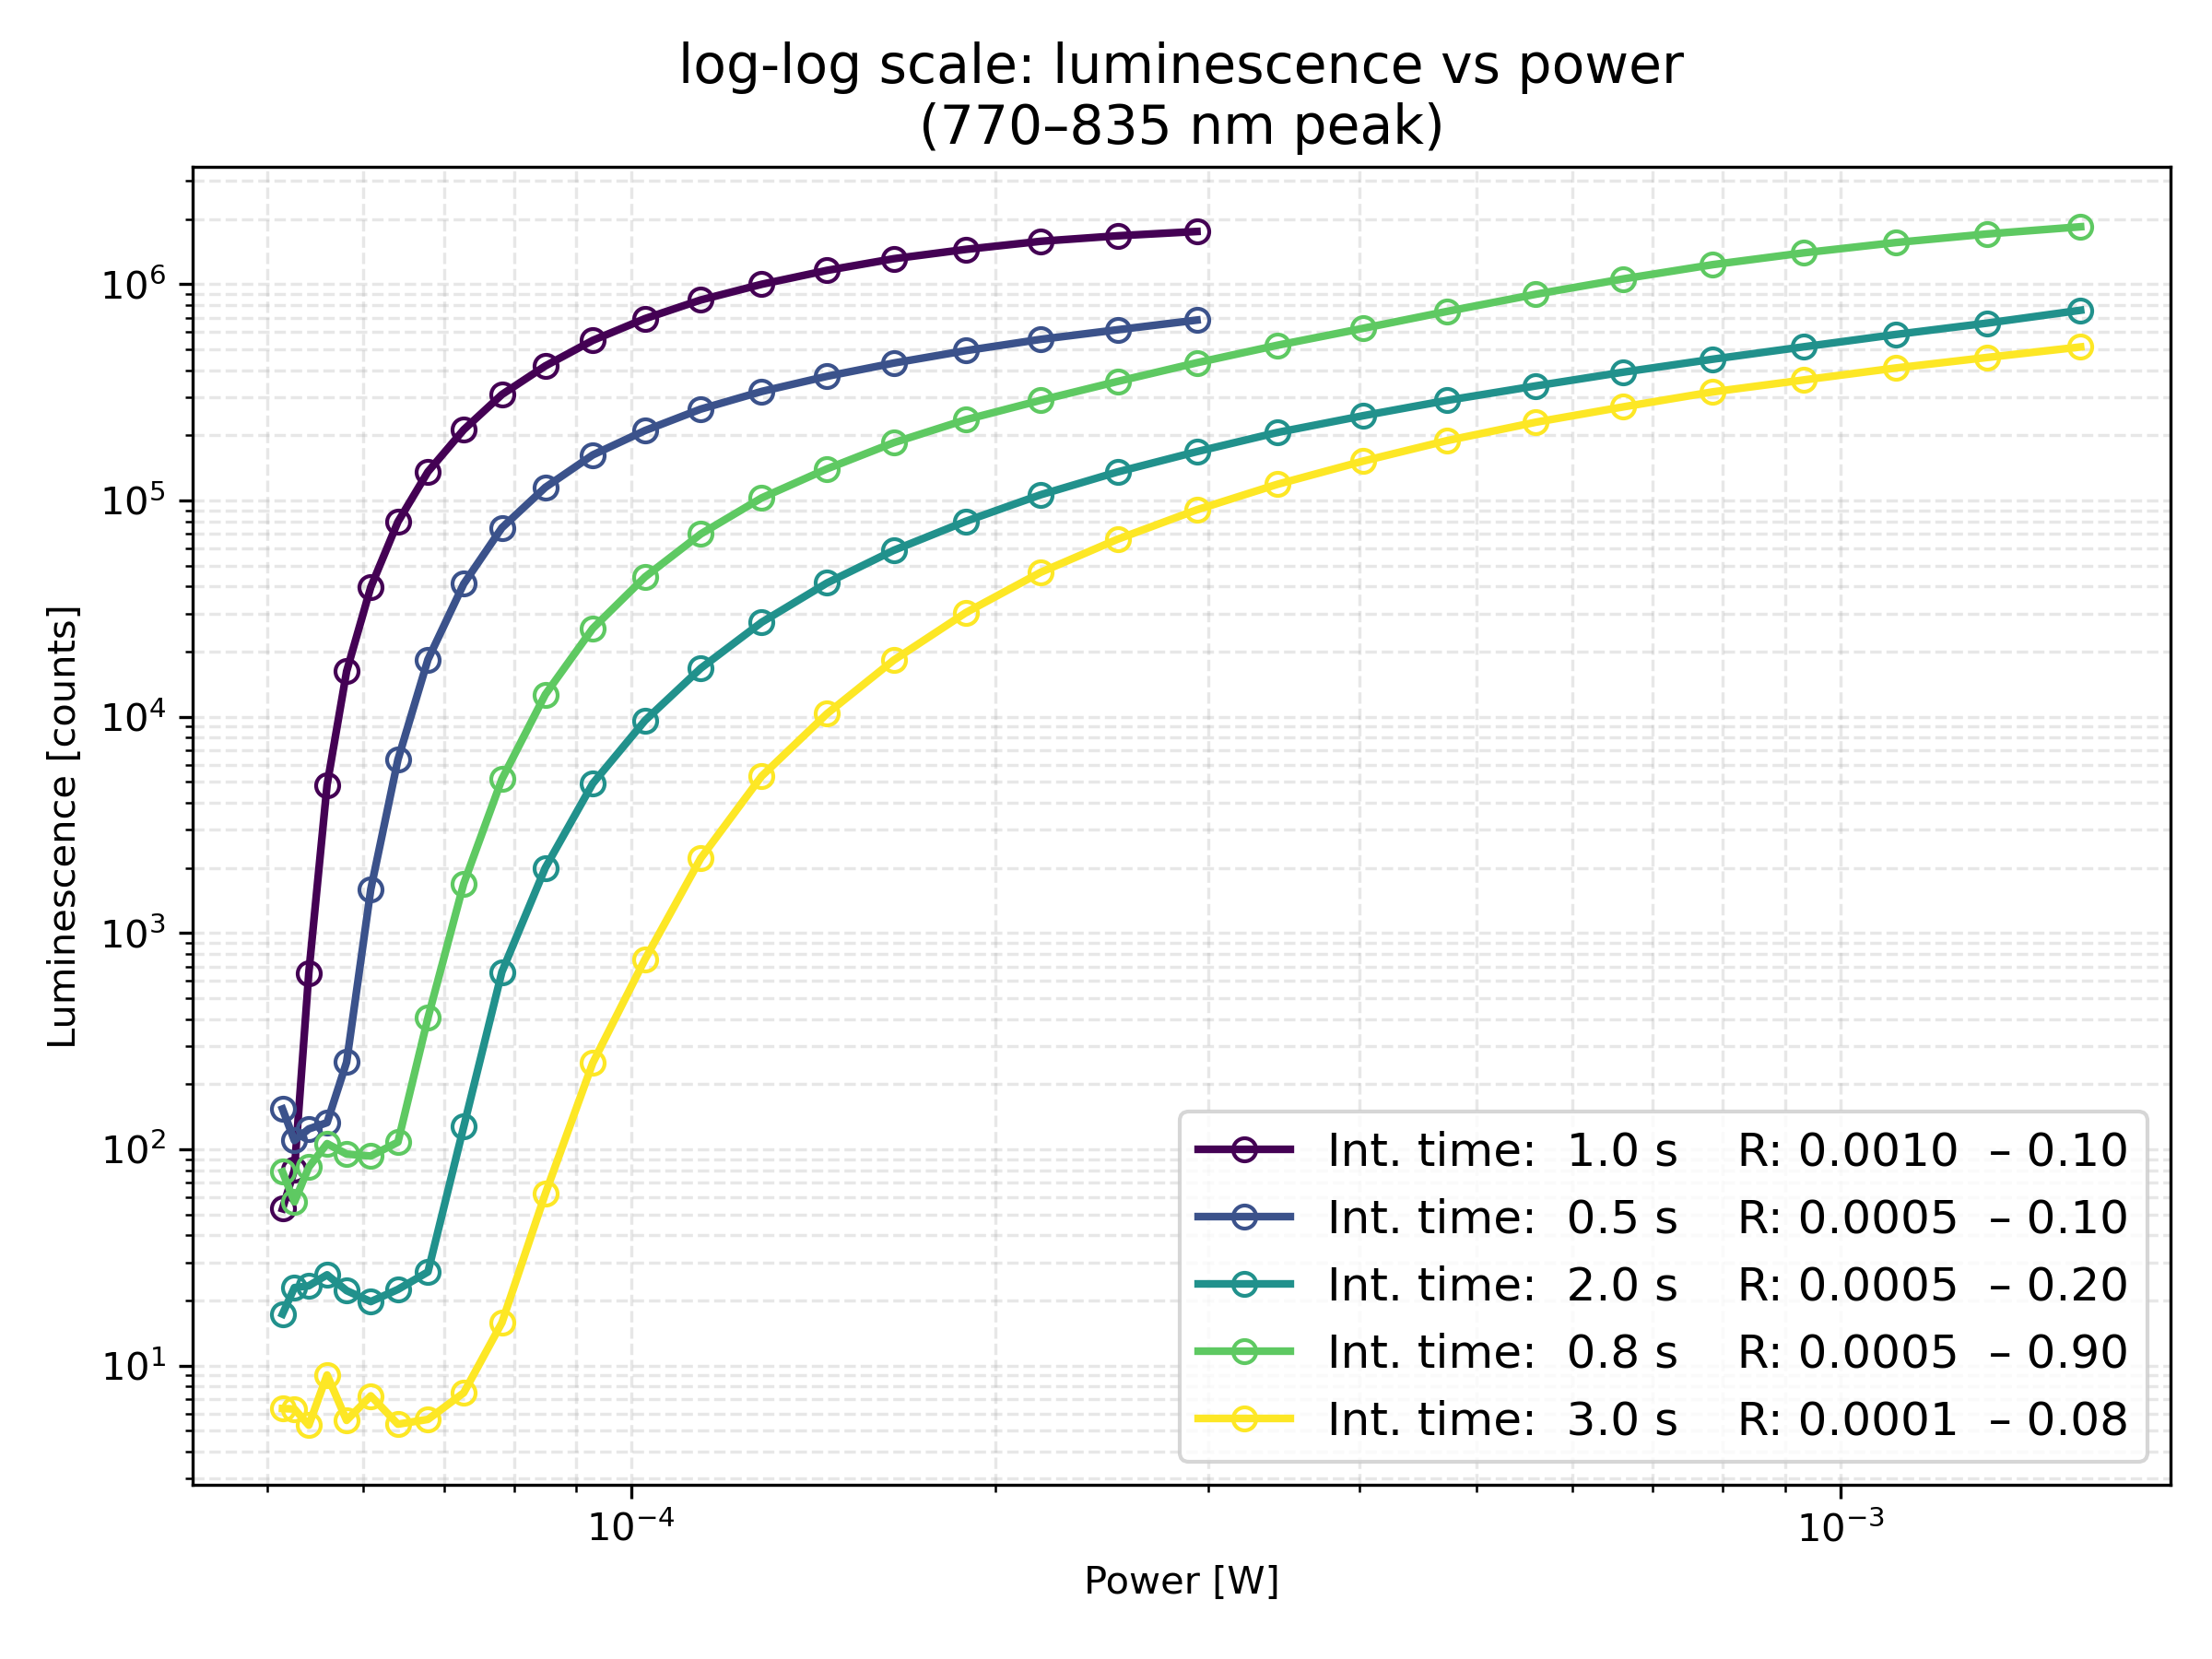
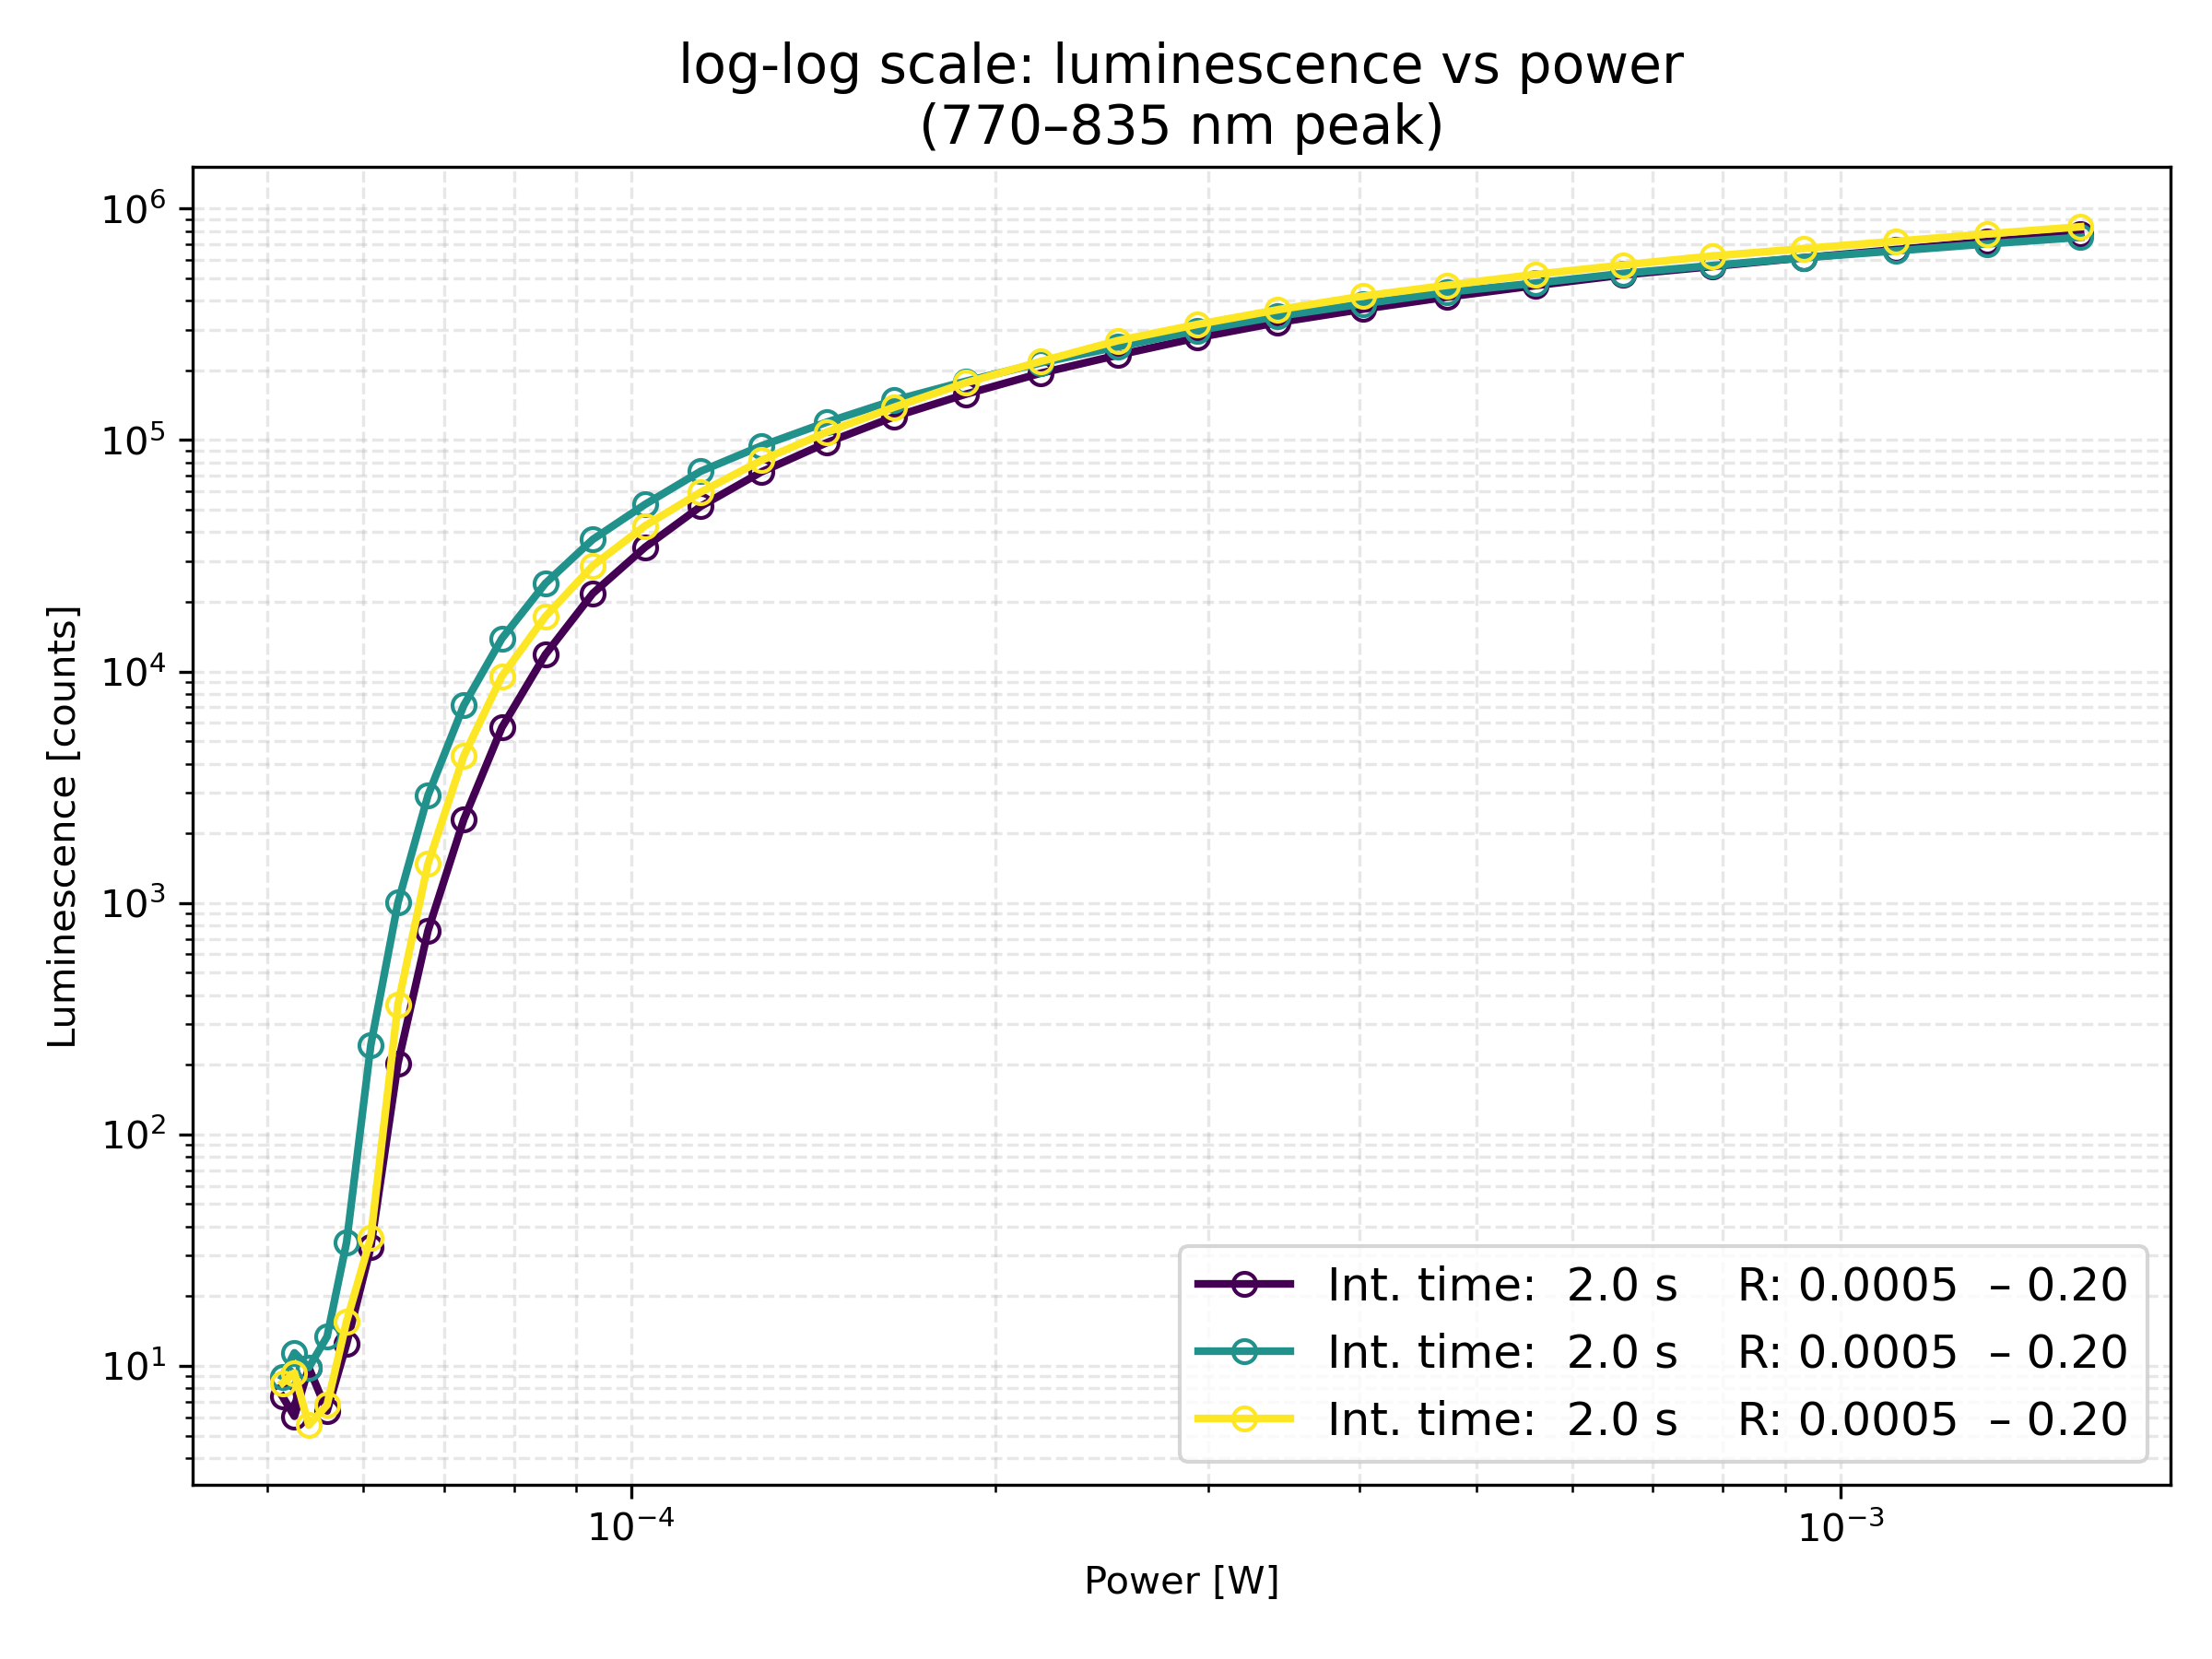
Data analysis

diff --git a/ANP/DataAnalysis/MainDataTreatmentNew.py b/ANP/DataAnalysis/MainDataTreatmentNew.py
@@ -1,0 +1,109 @@
+import matplotlib.pyplot as plt
+
+from DataAnalysis import *
+
+plt.close("all")
+
+# Each dictionary defines one dataset
+datasets = [
+    {
+        "folder": r"C:\Users\Filippo Calavaro\Documents\Filippo Calavaro\Data\Refocusing_same_place_20250404\20250404143753",
+        "integration_time": 2,
+        "ratio_start": 0.0005,
+        "ratio_stop": 0.2
+    },
+    {
+        "folder": r"C:\Users\Filippo Calavaro\Documents\Filippo Calavaro\Data\Refocusing_same_place_20250404\20250404144307",
+        "integration_time": 2,
+        "ratio_start": 0.0005,
+        "ratio_stop": 0.2
+    },
+    {
+        "folder": r"C:\Users\Filippo Calavaro\Documents\Filippo Calavaro\Data\Refocusing_same_place_20250404\20250404144722",
+        "integration_time": 2,
+        "ratio_start": 0.0005,
+        "ratio_stop": 0.2
+    },
+]
+
+# For the specific spectra plot
+
+selected_data = datasets[0]  # This is the first one
+
+# Load power map
+power_info_file = Path(selected_data["folder"]) / "SetInfoPowerCurve.txt"
+power_info = pd.read_csv(power_info_file, sep="\t")
+power_map = dict(zip(power_info["Pindex"], power_info["CurrentPower"]))
+
+# Read spectra and plot
+all_spectra = read_all_spectra(selected_data["folder"])
+
+# Integration range
+
+int_start = 770
+int_end = 835
+
+plot_spectra_with_zoom(
+    all_spectra,
+    integration_time=selected_data["integration_time"],
+    ratio_start=selected_data["ratio_start"],
+    ratio_stop=selected_data["ratio_stop"],
+    zoom_wl_min=630,
+    zoom_wl_max=760,
+    integration_range=(int_start, int_end)
+)
+
+# 630 - 760 nm range is good to zoom on the smaller peaks
+
+plt.show()
+
+n = len(datasets)
+
+# Plot all power curves in one figure
+fig_all, ax_all = plt.subplots(figsize=(8, 6))
+
+colors = plt.cm.viridis(np.linspace(0, 1, len(datasets)))
+
+for i, data in enumerate(datasets):
+
+    folder = data["folder"]
+    power_info_file = Path(folder) / "SetInfoPowerCurve.txt"
+    power_info = pd.read_csv(power_info_file, sep="\t")
+    power_map = dict(zip(power_info["Pindex"], power_info["CurrentPower"]))
+
+    all_spectra = read_all_spectra(folder)
+    results_df = integrate_peak(all_spectra, int_start, int_end,  integration_time=data["integration_time"])
+
+    label = f"Int. time: {data['integration_time']:>4.1f} s    R: {data['ratio_start']:<7.4f} – {data['ratio_stop']:<4.2f}"
+
+    ax_all.plot(
+        results_df["Power_W"],
+        results_df["Luminescence_counts"],
+        marker="o",
+        markersize=6,
+        markerfacecolor="none",
+        linestyle="-",
+        linewidth=2,
+        label=label,
+        color=colors[i]
+    )
+
+ax_all.set_xscale("log")
+ax_all.set_yscale("log")
+ax_all.set_title(f"log-log scale: luminescence vs power\n({int_start}–{int_end} nm peak)", fontsize=14)
+ax_all.set_xlabel("Power [W]")
+ax_all.set_ylabel("Luminescence [counts]")
+ax_all.grid(True, which='both', linestyle='--', alpha=0.3)
+ax_all.legend(fontsize=12, loc="lower right")
+
+plt.tight_layout()
+plt.savefig("All_PowerCurves.png", dpi=300)
+plt.show()
+
+# The derivative method is just a simple slope calculation between two points
+derivative_results, s = calculate_derivative(results_df)
+print(f"\nMaximum slope s ≈ {s:.2f}")
+
+#plot_derivative(derivative_results)
+
+plot_all_derivatives(datasets, int_start, int_end)